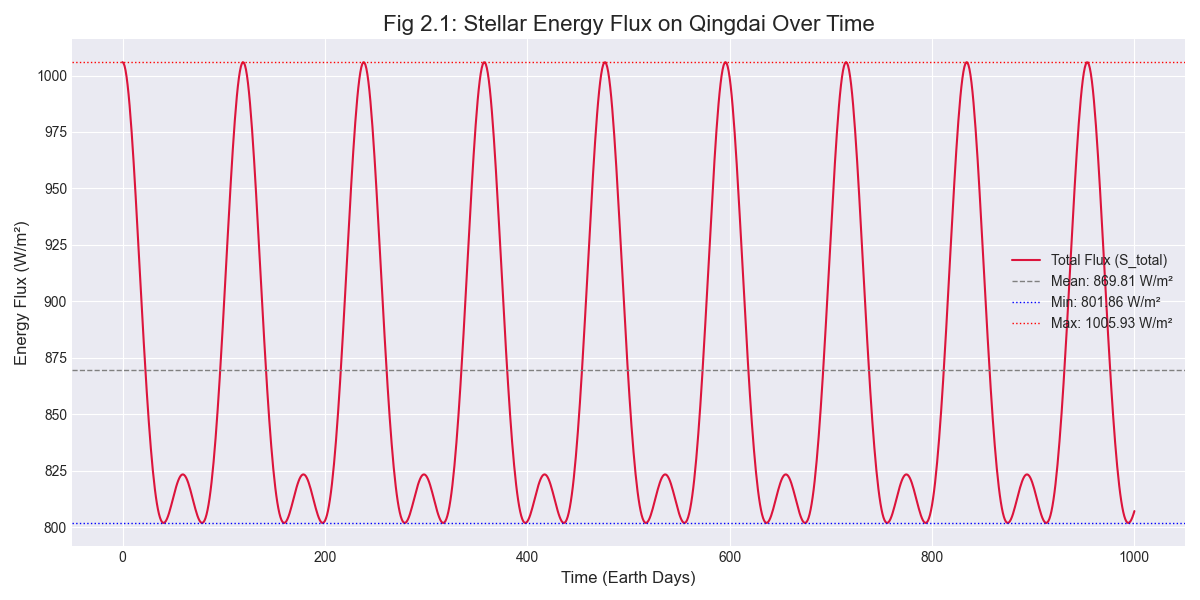
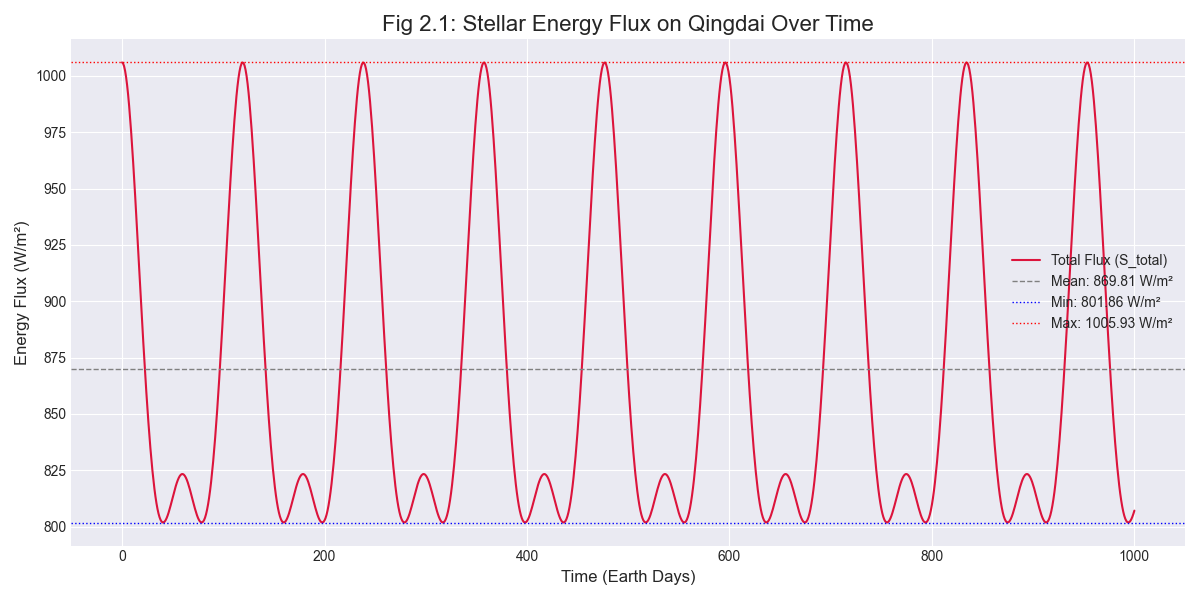
002 orbit

diff --git a/projects/002-physics-core.md b/projects/002-physics-core.md
@@ -1,0 +1,102 @@
+# 项目任务：P002 - 核心物理引擎实现
+
+本文档承接 `projects/001-genesis.md` 的规划，旨在将“青黛气候模拟”项目**第一阶段**的设想具体化，形成一份可执行的软件开发计划。
+
+## 1. 目标
+
+本阶段的核心目标是构建 `PyGCM for Qingdai` 软件包的物理引擎基础。这包括三个关键部分：
+1.  **轨道力学模块**: 精确计算行星“青黛”随时间变化的能量接收。
+2.  **大气动力学核心**: 在球坐标下模拟大尺度的大气环流。
+3.  **热力驱动模块**: 将轨道能量输入转化为驱动大气运动的物理力。
+
+## 2. 软件包结构 (`pygcm/`)
+
+为保证代码的模块化与可扩展性，我们将采用以下包结构，所有核心代码位于 `pygcm/` 目录下：
+
+```
+qingdai/
+├── pygcm/
+│   ├── __init__.py
+│   ├── constants.py      # 物理与天文常量
+│   ├── grid.py           # 球面网格与坐标系统
+│   ├── orbital.py        # 轨道力学与能量通量计算
+│   ├── forcing.py        # 热力强迫（辐射平衡温度）计算
+│   └── dynamics.py       # 大气动力学核心（浅水波模型）
+├── scripts/
+│   └── run_simulation.py   # 主仿真运行脚本
+└── ...
+```
+
+## 3. 任务分解与模块API定义
+
+### 任务 3.1: 常量与网格模块 (`constants.py`, `grid.py`)
+
+这两个基础模块需要最先建立。
+
+-   **`constants.py`**:
+    -   **目标**: 集中管理所有物理和天文参数。
+    -   **内容**:
+        -   物理常量 (G, $\sigma$, etc.)。
+        -   天文单位 (AU, M_SUN, L_SUN)。
+        -   “和光”与“青黛”的核心参数（质量、光度、轨道半长轴、行星半径、自转周期、轴倾角等），数据源为 `docs/01-astronomical-setting.md`。
+
+-   **`grid.py`**:
+    -   **目标**: 定义全球经纬度网格。
+    -   **API**:
+        -   `class SphericalGrid`:
+            -   `__init__(self, n_lat, n_lon)`: 初始化一个具有指定分辨率的网格。
+            -   `self.lat`, `self.lon`: 存储经纬度坐标的一维数组。
+            -   `self.coriolis_param`: 存储科里奥利参数 `f = 2 * Omega * sin(lat)` 的二维数组。
+
+### 任务 3.2: 轨道力学模块 (`orbital.py`)
+
+-   **目标**: 将 `docs/02-orbital-dynamics.md` 中的计算脚本封装成一个可复用的模块。
+-   **API**:
+    -   `class OrbitalSystem`:
+        -   `__init__(self, params)`: 接收一个包含所有天文参数的字典或对象。
+        -   `calculate_stellar_positions(self, t)`: 计算并返回 `t` 时刻两颗恒星相对于质心的坐标。
+        -   `calculate_total_flux(self, t)`: 计算并返回 `t` 时刻行星接收到的总能量通量 $S_{total}$。这是该模块的核心输出。
+
+### 任务 3.3: 热力驱动模块 (`forcing.py`)
+
+-   **目标**: 计算驱动大气运动的辐射平衡温度场 $T_{eq}$。
+-   **依赖**: `orbital.py`, `grid.py`, `constants.py`。
+-   **API**:
+    -   `class ThermalForcing`:
+        -   `__init__(self, grid, orbital_system, planet_params)`: 初始化。
+        -   `calculate_insolation(self, t)`: 计算 `t` 时刻每个网格点 `(lat, lon)` 接收的瞬时太阳辐射 $I(\text{lat, lon, t})$。
+        -   `calculate_equilibrium_temp(self, t)`: 根据 `docs/03-climate-model.md` 中的公式，计算 `t` 时刻的全球辐射平衡温度场 $T_{eq}(\text{lat, lon, t})$。
+
+### 任务 3.4: 大气动力学核心 (`dynamics.py`)
+
+-   **目标**: 实现基于浅水波方程的GCM核心。
+-   **方法**: 采用有限差分法在 `SphericalGrid` 上求解。
+-   **API**:
+    -   `class ShallowWaterModel`:
+        -   `__init__(self, grid, initial_state)`: 初始化模型状态（风场 `u`, `v` 和高度场 `h`）。
+        -   `time_step(self, Teq_field, dt)`: 根据当前状态和输入的 $T_{eq}$ 场，使用牛顿冷却方案计算热力强迫，并向前积分一个时间步 `dt`，更新 `u`, `v`, `h`。
+
+## 4. 集成与主仿真循环 (`scripts/run_simulation.py`)
+
+主脚本将协调所有模块，执行完整的仿真流程。
+
+1.  **初始化**:
+    -   加载 `constants`。
+    -   创建 `SphericalGrid` 实例。
+    -   创建 `OrbitalSystem` 实例。
+    -   创建 `ThermalForcing` 实例。
+    -   创建 `ShallowWaterModel` 实例并设置初始条件（如静止大气）。
+
+2.  **时间积分循环**:
+    -   `for t in time_steps:`
+        1.  `Teq = forcing_module.calculate_equilibrium_temp(t)`
+        2.  `gcm.time_step(Teq, dt)`
+        3.  （可选）存储或可视化当前 GCM 状态。
+
+## 5. 下一步行动
+
+1.  **创建包结构**: 在项目根目录下创建 `pygcm/` 目录及上述所有 `.py` 空文件。
+2.  **实现 `constants.py`**: 将所有已知参数填入。
+3.  **实现 `orbital.py`**: 按照API定义，将现有脚本代码迁移并封装。
+
+完成以上步骤后，我们将拥有一个能够输出动态能量通量的核心模块，为后续GCM的开发奠定基础。

diff --git a/docs/02-orbital-dynamics.md b/docs/02-orbital-dynamics.md
@@ -118,20 +118,20 @@ print(f"  - 波动幅度: {flux_variation_percentage:.2f}%")
 
 模型计算出的核心时间节律如下：
 
--   **双星互绕周期**: **115.82 地球日**
--   **行星公转周期**: **719.53 地球日**
+-   **双星互绕周期**: **96.24 地球日**
+-   **行星公转周期**: **500.09 地球日**
 
-这两个数值与 `01-astronomical-setting.md` 中设定的 **“脉冲季” (~116日)** 和 **“年” (~720日)** 高度吻合。这证明了项目世界观在基础天体物理层面是自洽的。我们建立的这个简化模型，成功地再现了“青黛”世界的核心时间节律。
+这两个数值是根据 `01-astronomical-setting.md` 中的天文学参数直接计算得出的，它们构成了“青黛”世界气候节律的物理基础。
 
 ### 2.3.2 能量通量节律
 
 总能量通量 $S_{total}$ 的变化是驱动“青黛”气候变化的最基本物理因素。
 
--   **平均能量**: 行星接收到的平均能量通量为 **1177.30 W/m²**。作为对比，地球接收的太阳常数约为 1361 W/m²。这表明“青黛”的整体环境可能比地球稍冷，但仍在生命可接受的范围内。
+-   **平均能量**: 行星接收到的平均能量通量为 **869.81 W/m²**。作为对比，地球接收的太阳常数约为 1361 W/m²。
 -   **双重节律**: 能量通量曲线呈现出清晰的两种周期叠加：
-    1.  一个约116日的**高频脉动**，对应双星互绕的“脉冲季”。
-    2.  一个约720日的**长波涨落**，对应行星公转的“年”。
--   **能量脉动**: 通量在 1110.02 W/m² 到 1246.58 W/m² 之间波动，波动幅度高达 **12.29%**。这种剧烈的、高频的能量输入变化，是“脉冲季”概念的物理来源，必然会对大气环流和气候模式产生深刻影响。
+    1.  一个约96日的**高频脉动**，对应双星互绕产生的“脉冲季”。
+    2.  一个约500日的**长波涨落**，对应行星公转产生的“年”。
+-   **能量脉动**: 通量在 801.86 W/m² 到 1005.93 W/m² 之间波动，波动幅度高达 **23.46%**。这种剧烈的、高频的能量输入变化，是“脉冲季”概念的物理来源，必然会对大气环流和气候模式产生深刻影响。
 
 下图以可视化方式展现了能量通量在两个“青黛年”内的变化规律。
 
